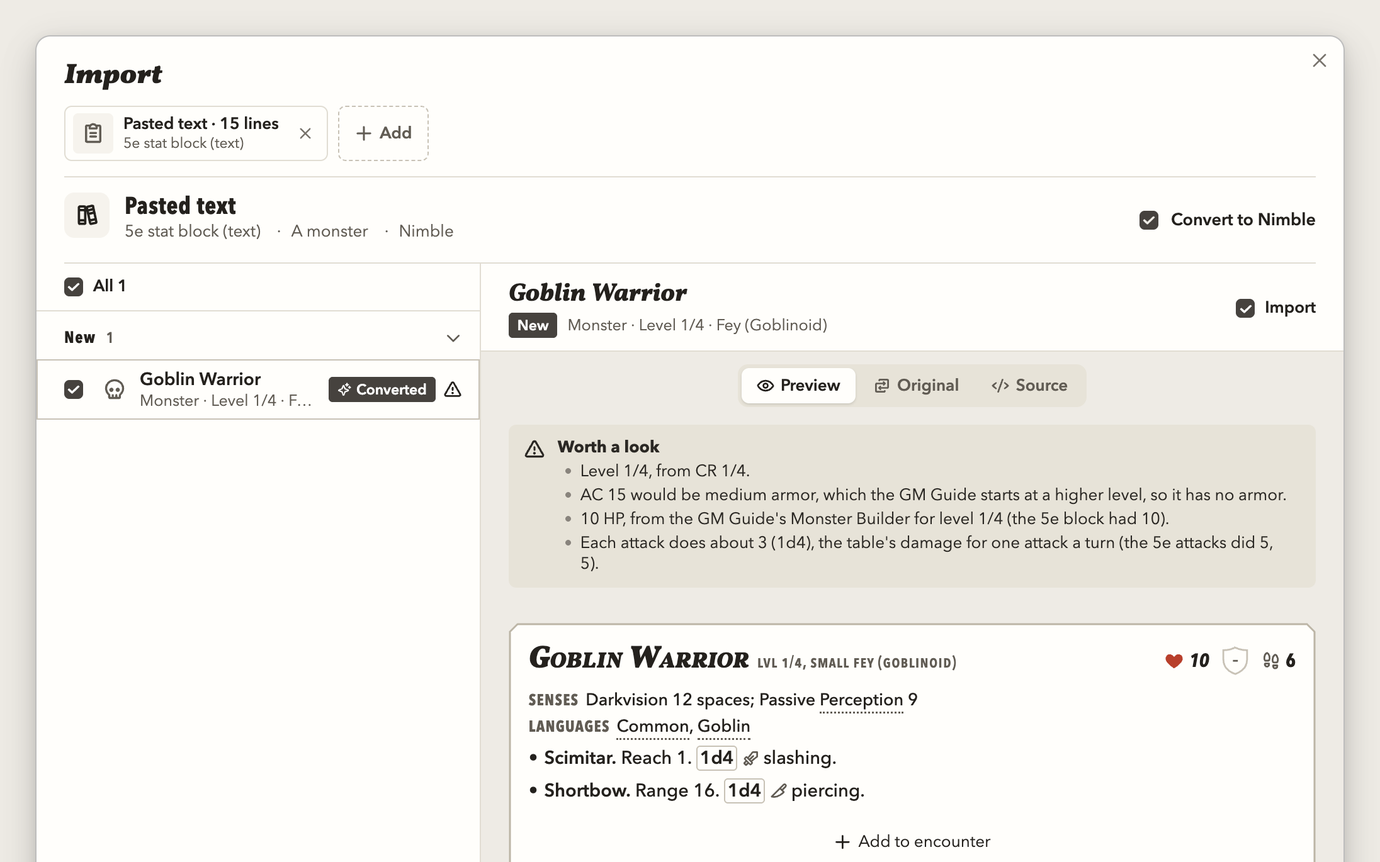
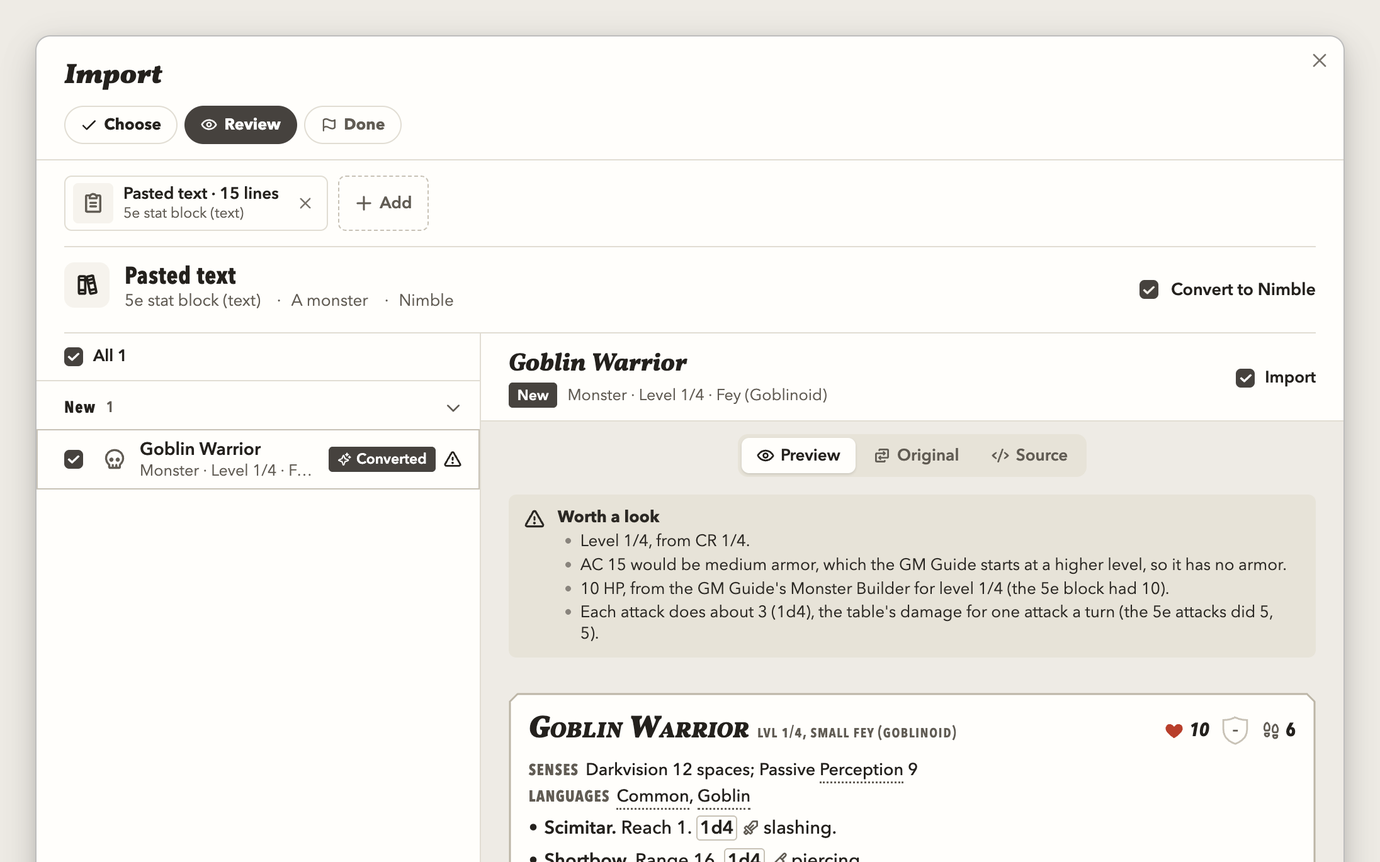
🪄 Import… is a wizard: Choose, Review, Done, with Back
Import… wears the builders' step chips (Choose, Review, Done) and their
footer: Cancel | Next while choosing, Back | Import N while reviewing, then
Import more | Done. Adding a file, pasting or fetching a link moves on to
Review by itself; Back returns to Choose with everything still given.

The guide covers what a converted note keeps (convertedFrom, convertedTo,
the folded original and Convert again behind its ⋯), Coming soon for
spells and items, and Import in the compendium's ⋯ menu, with a new shot of
a converted note. On phones the drop zone no longer says Choose files twice.

diff --git a/styles.css b/styles.css
@@ -5787,13 +5787,13 @@ body.is-tablet .modal.nimble-entity-builder:not(.is-phone-layout) { height: min(
 .nimble-entity-builder:not(.is-phone-layout) .eb-chip:not(#nimble-pill), .nimble-entity-builder .eb-chip.is-hidden:not(#nimble-pill) { display: none; } /* :not(#nimble-pill) outranks the shared pill rule */
 
 /* Step chips */
-.nimble-entity-builder .eb-dots { display: flex; gap: 0.35rem; padding: 0.15rem 1.25rem 0.7rem; overflow-x: auto; scrollbar-width: none; border-bottom: 1px solid var(--ev-paper-edge); flex: 0 0 auto; }
-.nimble-entity-builder .eb-dots::-webkit-scrollbar { display: none; }
-.nimble-entity-builder button.eb-dot { display: inline-flex; align-items: center; gap: 0.35rem; flex: 0 0 auto; height: 1.9rem; padding: 0 0.75rem; border-radius: 999px; border: 1px solid var(--ev-paper-edge); background: var(--background-primary); color: var(--text-muted); font-size: 0.78rem; font-weight: 700; line-height: 1; white-space: nowrap; }
-.nimble-entity-builder .eb-dot-icon { display: inline-flex; }
-.nimble-entity-builder .eb-dot-icon svg { width: 13px; height: 13px; }
-.nimble-entity-builder button.eb-dot.is-done { color: var(--text-normal); }
-.nimble-entity-builder button.eb-dot.is-active { background: var(--eb-accent); border-color: var(--eb-accent); color: var(--eb-on-accent); }
+:is(.nimble-entity-builder, .ev-import) .eb-dots { display: flex; gap: 0.35rem; padding: 0.15rem 1.25rem 0.7rem; overflow-x: auto; scrollbar-width: none; border-bottom: 1px solid var(--ev-paper-edge); flex: 0 0 auto; }
+:is(.nimble-entity-builder, .ev-import) .eb-dots::-webkit-scrollbar { display: none; }
+:is(.nimble-entity-builder, .ev-import) button.eb-dot { display: inline-flex; align-items: center; gap: 0.35rem; flex: 0 0 auto; height: 1.9rem; padding: 0 0.75rem; border-radius: 999px; border: 1px solid var(--ev-paper-edge); background: var(--background-primary); color: var(--text-muted); font-size: 0.78rem; font-weight: 700; line-height: 1; white-space: nowrap; }
+:is(.nimble-entity-builder, .ev-import) .eb-dot-icon { display: inline-flex; }
+:is(.nimble-entity-builder, .ev-import) .eb-dot-icon svg { width: 13px; height: 13px; }
+:is(.nimble-entity-builder, .ev-import) button.eb-dot.is-done { color: var(--text-normal); }
+:is(.nimble-entity-builder, .ev-import) button.eb-dot.is-active { background: var(--eb-accent); border-color: var(--eb-accent); color: var(--eb-on-accent); }
 
 /* Body: the steps and the side panel */
 .nimble-entity-builder .eb-body { display: grid; grid-template-columns: minmax(0, 1.45fr) minmax(300px, 1fr); flex: 1 1 auto; min-height: 0; }
@@ -7815,13 +7815,18 @@ body .workspace-leaf-content .ev-sheet-page:not(.nimble-show-props) .metadata-co
    step. What was given as chips, what it was read as, then the body (start, a status card, the review: the list
    beside a preview of the selected record, or what was written), then the footer. Narrow (under 720px, by the
    dialog's own width, `.is-narrow`): one column, the preview pushed over the list. */
-.modal.ev-dialog.ev-import { width: min(1080px, 96vw); height: min(780px, 92vh); max-height: 92vh; display: flex; flex-direction: column; overflow: hidden; padding: 0; }
+.modal.ev-dialog.ev-import { --eb-accent: var(--ev-accent); --eb-on-accent: var(--ev-on-accent); width: min(1080px, 96vw); height: min(780px, 92vh); max-height: 92vh; display: flex; flex-direction: column; overflow: hidden; padding: 0; }
 body.is-phone .modal.ev-dialog.ev-import { width: 100%; height: 100%; max-height: none; }
 .modal.ev-dialog.ev-import .modal-header, .modal.ev-dialog.ev-import > .modal-title { padding: 18px 22px 10px; margin: 0; }
 .modal.ev-dialog.ev-import .modal-content.ev-import-frame { flex: 1 1 auto; min-height: 0; display: flex; flex-direction: column; gap: 0; overflow: hidden; padding: 0; }
 .ev-import .ev-import-file { display: none; }
 .ev-import :is(.ev-import-sources, .ev-import-read).is-hidden { display: none; }
 .ev-import :focus-visible { outline: 2px solid var(--ev-accent); outline-offset: 2px; }
+
+/* The steps (the builders' chips): Choose, Review, Done. */
+.ev-import .eb-dots.ev-import-steps { padding: 0 22px 12px; margin-bottom: 12px; }
+.ev-import.is-narrow .eb-dots.ev-import-steps { padding-left: 16px; padding-right: 16px; }
+.ev-import button.eb-dot:disabled { opacity: 1; cursor: default; }
 
 /* What was given: a chip each; a data file and its picture share one box. */
 .ev-import-sources { flex: 0 0 auto; display: flex; gap: 8px; align-items: stretch; padding: 0 22px 12px; overflow-x: auto; scrollbar-width: thin; }
@@ -8068,7 +8073,7 @@ button.ev-original-more { margin-left: auto; color: var(--text-faint); }
 @media (prefers-reduced-motion: reduce) { .ev-import.is-narrow .ev-import-detail { transition: none; } }
 /* Phones: no drag and drop; the drop zone is a big Choose files button. */
 body.is-phone .ev-import .ev-import-drop { flex-direction: row; justify-content: flex-start; gap: 14px; padding: 16px; border-style: solid; border-width: 1px; text-align: left; }
-body.is-phone .ev-import .ev-import-drop-sub, body.is-phone .ev-import button.ev-import-choose { display: none; }
+body.is-phone .ev-import .ev-import-drop-sub, body.is-phone .ev-import button.ev-import-choose:not(#nimble-pill) { display: none; } /* :not(#nimble-pill) outranks the shared pill rule */
 body.is-phone .ev-import .ev-import-drop-icon { width: 48px; height: 48px; }
 body.is-phone .ev-import .ev-import-drop-title { font-size: 20px; }
 @media (max-width: 480px) {

diff --git a/src/core/import/dialog.ts b/src/core/import/dialog.ts
@@ -84,6 +84,9 @@ export class ImportDialog extends Modal {
 	private urls = new Map<string, string>();
 	private preview = new Component();
 	private pasteText = '';
+	/** The wizard's step: what to import, then what it brings (the third, Done, is `done`). */
+	private step: 'choose' | 'review' = 'choose';
+	private stepsEl!: HTMLElement;
 	private sourcesEl!: HTMLElement;
 	private readEl!: HTMLElement;
 	private bodyEl!: HTMLElement;
@@ -108,6 +111,8 @@ export class ImportDialog extends Modal {
 		this.titleEl.setText(pref ? `Import ${/^(a|an|the) /i.test(pref.label) ? pref.label : `from ${pref.label}`}` : 'Import');
 		const el = this.contentEl;
 		el.addClass('ev-import-frame');
+		// The wizard's steps, as the builders draw theirs.
+		this.stepsEl = el.createDiv({ cls: 'eb-dots ev-import-steps', attr: { role: 'tablist' } });
 		this.sourcesEl = el.createDiv({ cls: 'ev-import-sources', attr: { role: 'list', 'aria-label': 'What you gave' } });
 		this.readEl = el.createDiv({ cls: 'ev-import-read' });
 		this.bodyEl = el.createDiv({ cls: 'ev-import-body' });
@@ -201,6 +206,7 @@ export class ImportDialog extends Modal {
 			}
 		}
 		this.done = null;
+		this.step = 'review';
 		void this.readAll();
 	}
 
@@ -217,6 +223,7 @@ export class ImportDialog extends Modal {
 		} else if (t) {
 			const lines = text.split('\n').length;
 			this.sources.push({ id: sourceId(), kind: 'text', name: `Pasted text · ${lines} line${lines === 1 ? '' : 's'}`, text, size: text.length });
+			this.step = 'review';
 		}
 		this.done = null;
 		void this.readAll();
@@ -234,6 +241,7 @@ export class ImportDialog extends Modal {
 			this.link = null;
 			this.pasteText = '';
 			this.sources.push({ id: sourceId(), kind: 'link', name: l.host, text: res.text, url: l.url, size: res.text.length });
+			this.step = 'review';
 			void this.readAll(l.importer);
 		});
 	}
@@ -382,10 +390,30 @@ export class ImportDialog extends Modal {
 	// Drawing
 
 	private render(): void {
+		this.drawSteps();
 		this.drawSources();
 		this.drawRead();
 		this.drawBody();
 		this.drawFoot();
+	}
+
+	/** Choose, Review, Done: where you are, done ones ticked; a step behind you takes you back. */
+	private drawSteps(): void {
+		const el = this.stepsEl;
+		el.empty();
+		const at = this.done ? 2 : this.step === 'review' && this.sources.length ? 1 : 0;
+		const steps: { label: string; icon: EvIconName; go?: () => void }[] = [
+			{ label: 'Choose', icon: 'tray-arrow-down', go: () => { this.step = 'choose'; this.render(); } },
+			{ label: 'Review', icon: 'eye', go: this.sources.length ? () => { this.step = 'review'; this.render(); } : undefined },
+			{ label: 'Done', icon: 'flag' },
+		];
+		steps.forEach((st, i) => {
+			const d = el.createEl('button', { cls: `eb-dot${i === at ? ' is-active' : ''}${i < at ? ' is-done' : ''}`, attr: { role: 'tab', 'aria-selected': String(i === at) } });
+			setIcon(d.createSpan({ cls: 'eb-dot-icon' }), evIcon(i < at ? 'check' : st.icon));
+			d.createSpan({ cls: 'eb-dot-label eb-t', text: st.label });
+			d.disabled = !!this.done || i === at || !st.go;
+			if (st.go && !this.done) d.addEventListener('click', st.go);
+		});
 	}
 
 	private drawSources(): void {
@@ -503,7 +531,7 @@ export class ImportDialog extends Modal {
 		this.modalEl.removeClass('is-start', 'is-review', 'is-status', 'is-done', 'is-custom');
 		if (this.done) { this.modalEl.addClass('is-done'); this.drawDone(el); return; }
 		if (this.link) { this.modalEl.addClass('is-status'); this.drawLink(el); return; }
-		if (!this.sources.length) { this.modalEl.addClass('is-start'); this.drawStart(el); return; }
+		if (!this.sources.length || this.step === 'choose') { this.modalEl.addClass('is-start'); this.drawStart(el); return; }
 		const custom = this.custom();
 		if (custom) {
 			this.modalEl.addClass('is-custom');
@@ -879,10 +907,18 @@ export class ImportDialog extends Modal {
 			main.addClass('ev-import-main');
 			return;
 		}
+		// Choose: Cancel | Next (once something is given). Review: Back | Import N.
+		if (this.step === 'choose' || !this.sources.length) {
+			const { main } = dialogFoot(el, { cancel: () => this.close(), main: { text: 'Next', icon: evIcon('caret-right'), onClick: () => { this.step = 'review'; this.render(); } } });
+			main.addClass('ev-import-next');
+			main.disabled = !this.sources.length || !!this.link;
+			return;
+		}
 		const custom = this.custom();
 		const n = custom ? custom.chosen() : this.chosen().length;
 		const label = custom ? custom.action ?? 'Import' : n ? `Import ${n}` : 'Import';
-		const { main, foot } = dialogFoot(el, { cancel: () => this.close(), main: { text: label, icon: evIcon('check'), onClick: () => void this.importChosen() } });
+		const { main, foot } = dialogFoot(el, { cancel: () => { this.step = 'choose'; this.modalEl.removeClass('is-detail-open'); this.render(); }, cancelText: 'Back', main: { text: label, icon: evIcon('check'), onClick: () => void this.importChosen() } });
+		foot.querySelector('.is-cancel')?.addClass('ev-import-back-btn');
 		main.addClass('ev-import-main');
 		main.disabled = !n;
 		if (!Platform.isMobile) foot.insertBefore(createSpan({ cls: 'ev-import-kbd', text: Platform.isMacOS ? '⌘↵' : 'Ctrl+↵' }), main);
@@ -898,6 +934,7 @@ export class ImportDialog extends Modal {
 		this.picked.clear();
 		this.selected = null;
 		this.done = null;
+		this.step = 'choose';
 		this.modalEl.removeClass('is-detail-open');
 		this.render();
 	}

diff --git a/prototypes/encounter-design-study.html b/prototypes/encounter-design-study.html
@@ -11612,7 +11612,7 @@ DEFS.nimble.tools = {
 		'<b>Character wizard.</b> New character and Level up are one carousel in a game dialog: step chips along the top (charcoal for the one on show, a green tick when done), one decision a step, and Back | Next in the keypad’s footer. Stats draw the sheet’s own boxes and save triangles; KEY is ochre, the class’s colour, and so is the subclass you choose. HP is red, schools and spells blue, everything else charcoal. Names are Vollkorn, labels the condensed capitals; nothing explains a label or prints a formula.',
 		'<b>Party editor.</b> A game dialog in the look of the game being played: column heads as labels, names in Vollkorn, numbers in the figures, Add hero and Level up as the dialog’s buttons. The settings page keeps Obsidian’s own look.',
 		'<b>Maps.</b> The map wears its campaign’s game: the toolbar as pill buttons (the one that’s on a full charcoal tint), charcoal pins with red for encounters and danger and ochre for treasure, labels as dark tags in the condensed face. Monsters are charcoal discs with white initials, heroes sit on parchment, a legendary monster’s ring is ochre; the tray’s names are in Vollkorn.',
-		'<b>Import….</b> One full-size frame for everything from elsewhere (designed first as its own study, <code>prototypes/import-study</code>): what was given as chips (a dungeon’s JSON and its picture share one, with a link glyph), what it was read as on one line, then the records grouped by what will happen (New, Updates, Already imported, Already yours, Left out; status by group and glyph, never a stripe) beside a preview drawn by the vault’s own renderers: a monster’s stat block, an NPC’s card, a place’s card, a map with its pins. Changes, Original and Source are the preview’s tabs; what to check is a tinted note, a line each. Narrow, the preview is pushed over the list. After Import the frame lists what it wrote, with Open.',
+		'<b>Import….</b> A wizard like the builders (their step chips: Choose, Review, Done; Back and Next in the footer), one full-size frame for everything from elsewhere (designed first as its own study, <code>prototypes/import-study</code>): what was given as chips (a dungeon’s JSON and its picture share one, with a link glyph), what it was read as on one line, then the records grouped by what will happen (New, Updates, Already imported, Already yours, Left out; status by group and glyph, never a stripe) beside a preview drawn by the vault’s own renderers: a monster’s stat block, an NPC’s card, a place’s card, a map with its pins. Changes, Original and Source are the preview’s tabs; what to check is a tinted note, a line each. Narrow, the preview is pushed over the list. After Import the frame lists what it wrote, with Open. A converted note keeps its original under its stat block as one quiet folded line; Convert again is behind its ⋯, never up front.',
 		'<b>Measured.</b> Every new pill, tag and compact button is in the shared centring rule and in <code>PILL_SELECTORS</code>; the e2e test “pills: builders and dialogs line up” measures Add several, the encounter builder, the party, both games’ builders, the roll toast and both games’ maps within 1px.',
 	],
 	shots: [

diff --git a/prototypes/design-study/src/78-tools.js b/prototypes/design-study/src/78-tools.js
@@ -25,7 +25,7 @@ DEFS.nimble.tools = {
 		'<b>Character wizard.</b> New character and Level up are one carousel in a game dialog: step chips along the top (charcoal for the one on show, a green tick when done), one decision a step, and Back | Next in the keypad’s footer. Stats draw the sheet’s own boxes and save triangles; KEY is ochre, the class’s colour, and so is the subclass you choose. HP is red, schools and spells blue, everything else charcoal. Names are Vollkorn, labels the condensed capitals; nothing explains a label or prints a formula.',
 		'<b>Party editor.</b> A game dialog in the look of the game being played: column heads as labels, names in Vollkorn, numbers in the figures, Add hero and Level up as the dialog’s buttons. The settings page keeps Obsidian’s own look.',
 		'<b>Maps.</b> The map wears its campaign’s game: the toolbar as pill buttons (the one that’s on a full charcoal tint), charcoal pins with red for encounters and danger and ochre for treasure, labels as dark tags in the condensed face. Monsters are charcoal discs with white initials, heroes sit on parchment, a legendary monster’s ring is ochre; the tray’s names are in Vollkorn.',
-		'<b>Import….</b> One full-size frame for everything from elsewhere (designed first as its own study, <code>prototypes/import-study</code>): what was given as chips (a dungeon’s JSON and its picture share one, with a link glyph), what it was read as on one line, then the records grouped by what will happen (New, Updates, Already imported, Already yours, Left out; status by group and glyph, never a stripe) beside a preview drawn by the vault’s own renderers: a monster’s stat block, an NPC’s card, a place’s card, a map with its pins. Changes, Original and Source are the preview’s tabs; what to check is a tinted note, a line each. Narrow, the preview is pushed over the list. After Import the frame lists what it wrote, with Open.',
+		'<b>Import….</b> A wizard like the builders (their step chips: Choose, Review, Done; Back and Next in the footer), one full-size frame for everything from elsewhere (designed first as its own study, <code>prototypes/import-study</code>): what was given as chips (a dungeon’s JSON and its picture share one, with a link glyph), what it was read as on one line, then the records grouped by what will happen (New, Updates, Already imported, Already yours, Left out; status by group and glyph, never a stripe) beside a preview drawn by the vault’s own renderers: a monster’s stat block, an NPC’s card, a place’s card, a map with its pins. Changes, Original and Source are the preview’s tabs; what to check is a tinted note, a line each. Narrow, the preview is pushed over the list. After Import the frame lists what it wrote, with Open. A converted note keeps its original under its stat block as one quiet folded line; Convert again is behind its ⋯, never up front.',
 		'<b>Measured.</b> Every new pill, tag and compact button is in the shared centring rule and in <code>PILL_SELECTORS</code>; the e2e test “pills: builders and dialogs line up” measures Add several, the encounter builder, the party, both games’ builders, the roll toast and both games’ maps within 1px.',
 	],
 	shots: [

diff --git a/CHANGELOG.md b/CHANGELOG.md
@@ -10,11 +10,11 @@ Import from anywhere: Nimble Nexus, 5etools, Open5e, dungeon generators and past
 
 ### Added
 
-- **Import…** brings in content, NPCs, places and maps from other tools in one window. Choose files, paste text or paste a link, and it works out what the file is. Before anything is written, it shows what's new, what updates something you imported before, and what's already yours. Everything it writes remembers where it came from, so importing the same file again updates it instead of making copies. `/import` opens it from any note. See the [import guide](docs/import.md).
+- **Import…** brings in content, NPCs, places and maps from other tools in one window. A wizard: choose files, paste text or paste a link, and it works out what the file is. Before anything is written, it shows what's new, what updates something you imported before, and what's already yours. Everything it writes remembers where it came from, so importing the same file again updates it instead of making copies. `/import` opens it from any note, and so does **⋯ → Import…** in the compendium. See the [import guide](docs/import.md).
 - Monsters and items from **Nimble Nexus**: paste a monster's, item's or collection's link into Import… and choose **Fetch from nimble.nexus**, or import a file exported from Nexus or Slate (their Nexus and Nimbrew formats). Movement, saves, Solo monsters, minions and each action's reach and range come across, and every entry links back to its page. See the [import guide](docs/import.md).
 - 5e monsters, spells and magic items from **5etools homebrew** files and **Open5e** (paste a creature's link, or import its file). 5etools' `{@hit 5}`-style markup becomes plain text, and each Open5e creature keeps the book it's from. See the [import guide](docs/import.md).
 - **Paste a stat block as the book prints it.** Copy a monster from a PDF or a web page (a Nimble book's, or a 5e one in the 2014 or 2024 layout) and paste it into Import…. Lines the PDF wrapped are joined back, and several pasted together come in one each. Your own ```nimble and ```5e blocks paste in too. See the [import guide](docs/import.md).
-- **5e monsters convert to Nimble.** Import 5e monsters into a Nimble campaign (from any 5e format, or pasted) and Import… converts them on the GM Guide's numbers: the level from the CR, HP and damage from the Monster Builder table, armor from the AC, legendary monsters as solos with a Last Stand. Attacks keep their names, with reach and range in spaces. Each converted monster lists what changed for you to check, has an **Original** tab showing the 5e block, and says `converted: dnd5e` on its note. Switch **Convert to Nimble** off to import it as 5e. See the [import guide](docs/import.md).
+- **5e monsters convert to Nimble.** Import 5e monsters into a Nimble campaign (from any 5e format, or pasted) and Import… converts them on the GM Guide's numbers: the level from the CR, HP and damage from the Monster Builder table, armor from the AC, legendary monsters as solos with a Last Stand. Attacks keep their names, with reach and range in spaces. Each converted monster lists what changed for you to check and has an **Original** tab. Its note says `convertedFrom` and `convertedTo`, and keeps the original under its stat block, folded: open it to see the 5e block, or choose **Convert again** in its **⋯** menu to rebuild the Nimble block with the latest converter. Spells and items show as Coming soon; switch **Convert to Nimble** off to import them as 5e. See the [import guide](docs/import.md#convert-5e-monsters-to-nimble).
 - **Maps from other tools.** Import a Watabou One Page Dungeon or a donjon dungeon (its JSON, with its picture if you have it) and get a map with a pin on each room, and what's in the room in the map's key. Without the picture, Import… draws a plain map from the dungeon's rooms, so the pins sit exactly where they belong. A Universal VTT file (Dungeondraft, Dungeon Scrawl, Dungeon Alchemist) brings its picture and grid, and any picture becomes a map. See the [import guide](docs/import.md).
 - **Mapping files** teach Import… another tool's format without waiting for an update: a JSON file in your content folder's Importers folder that says which of the tool's fields go where. See the [mapping files guide](docs/mapping-files.md).
 

diff --git a/docs/import.md b/docs/import.md
@@ -2,7 +2,9 @@
 
 **Import…** brings content, NPCs, places and maps into your vault from other tools: a Nimble Nexus monster, a 5etools homebrew file, a Watabou dungeon, a stat block copied out of a PDF. You don't need to say what it is: Import… works it out, shows you everything before it's written, and remembers where each thing came from.
 
-Open it with **Import…** in the command palette (**Ctrl+P**, or **Cmd+P** on a Mac), with `/import` in any note, or with **Import…** in **Settings → Ember Vault → Content packs**.
+Open it from the compendium's **⋯** menu (next to **New**), with `/import` in any note, with **Import…** in the command palette (**Ctrl+P**, or **Cmd+P** on a Mac), or from **Settings → Ember Vault → Content packs**.
+
+It's a wizard in three steps: **Choose** what to import, **Review** what it brings, and **Done**, which lists what it wrote. **Back** returns to Choose to add or remove something.
 
 ![Import… reviewing a Nimble Nexus collection: three monsters and an item, all ticked, and the Mire Hag's stat block drawn on the right as the vault will show it](images/feature-import.png)
 
@@ -49,7 +51,7 @@ Select any row to see it the way the vault will show it: a monster's stat block,
 
 Choose **Import 7** (the count is what's ticked). The window then lists every note it wrote, with **Open**. Monsters go in the campaign's **Monsters** folder, NPCs in **NPCs**, places in **Locations**, maps in **Maps**, and spells, items and classes in your content folder, where the compendium finds them.
 
-Each one says where it came from (`imported: Nimble Nexus`, and the source's `importId`). Import the same file again and what changed is offered as an update instead of a second copy, so keep those two properties if you edit the note.
+Each one says where it was imported from (`imported: Nimble Nexus`, and the source's `importId`). Import the same file again and what changed is offered as an update instead of a second copy, so keep those two properties if you edit the note.
 
 ## Maps
 
@@ -82,7 +84,33 @@ Import 5e monsters into a Nimble campaign and **Convert to Nimble** is on. Each 
 
 ![A 5e goblin pasted into a Nimble campaign: tagged Converted, what changed listed under Worth a look, and its Nimble stat block](images/guide-import-convert.png)
 
-**Worth a look** lists every change, and **Original** shows the 5e block. The note says `converted: dnd5e`, so you can find converted monsters later. Only monsters convert so far; turn **Convert to Nimble** off to import spells, items and monsters as 5e.
+**Worth a look** lists every change, and **Original** shows the 5e block. Monsters always convert to your campaign's game. Only monsters convert so far: spells and items show as **Coming soon**, and switching **Convert to Nimble** off imports everything as 5e.
+
+### What a converted note keeps
+
+A converted monster's note says where it came from in its properties:
+
+```yaml
+convertedFrom: dnd5e
+convertedTo: nimble
+```
+
+Under its stat block it keeps the original, as plain text in the note:
+
+````markdown
+```ev-original
+game: dnd5e
+lang: 5e
+converted: 2026-11-24
+---
+name: Goblin Warrior
+…
+```
+````
+
+In reading view that's one folded line, **Converted from 5e**. Select it to see the original stat block. Its **⋯** menu has **Convert again**, which builds the Nimble stat block again from the original with the converter as it is now. As the converter gets better, Convert again picks up its fixes without importing the monster again. It asks first, because changes you made to the Nimble stat block are replaced.
+
+![A converted goblin's note: its Nimble stat block, and under it the folded "Converted from 5e" line opened to show the original 5e stat block](images/guide-import-original.png)
 
 ## What goes online
 

diff --git a/docs/import-bundle.md b/docs/import-bundle.md
@@ -45,7 +45,7 @@ The schema is [bundle.schema.json](import/bundle.schema.json). Point your editor
 | `system` | The game the content is for: `"nimble"` or `"5e"`. Only needed when there's content. |
 | `edition` | 5e only: `"2024"` or `"2014"`. |
 | `source` | Where the bundle came from: `name`, `url`, `license`. Import… shows them before anything is written, and each note it writes says `imported: <name>`. |
-| `content` | The game's monsters, spells, items, classes and the rest: the same entries a [content pack](content-packs.md) holds, plus `importedFrom`. Monsters become monster notes in the campaign; the rest become notes in the content folder. |
+| `content` | The game's monsters, spells, items, classes and the rest: the same entries a [content pack](content-packs.md) holds, plus `importedFrom` (where it came from). An entry converted from another game says `convertedFrom` and carries its `original`. Monsters become monster notes in the campaign; the rest become notes in the content folder. |
 | `notes` | NPCs, locations, quests and plain notes: `kind`, `name`, `fields` (the note's properties: `role`, `faction`, and the game's own, like Nimble's `level`, `armor`, `hp`), `card` (an NPC's `look`, `wants`, `voice`, `secret`) and `body` (Markdown). |
 | `maps` | A map note each: `image` (a file in `files`, or one chosen with the bundle), `grid` (`"30x20"`), `pins` and `body`. |
 | `files` | Pictures, as base64 in `data`. |
